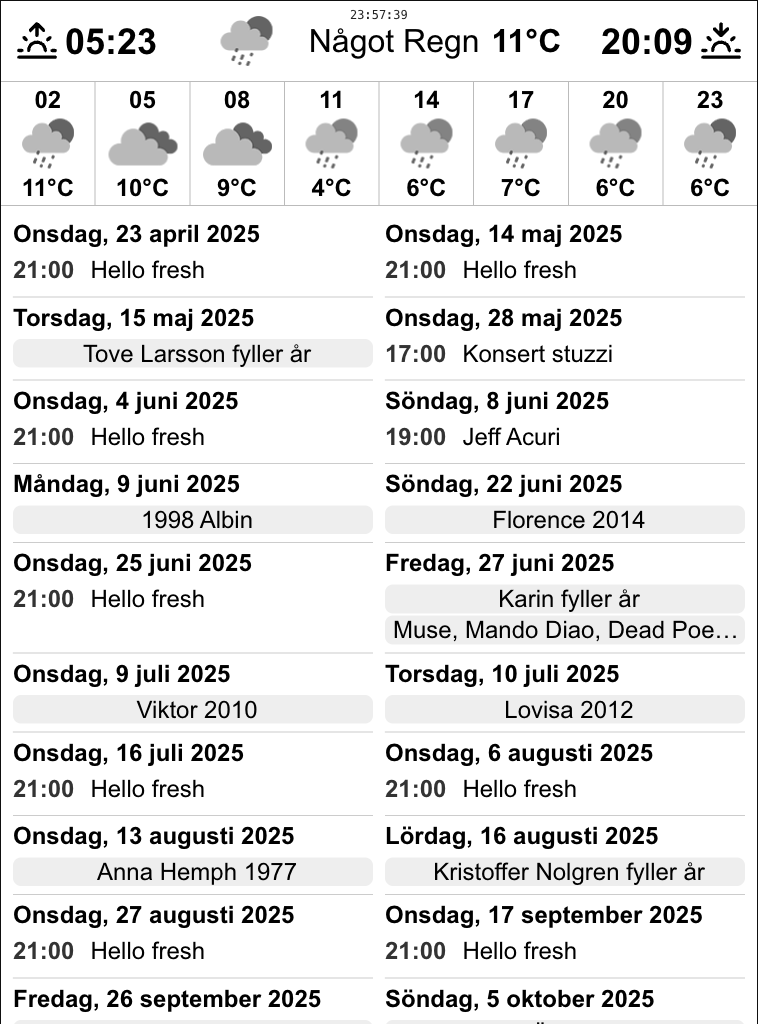
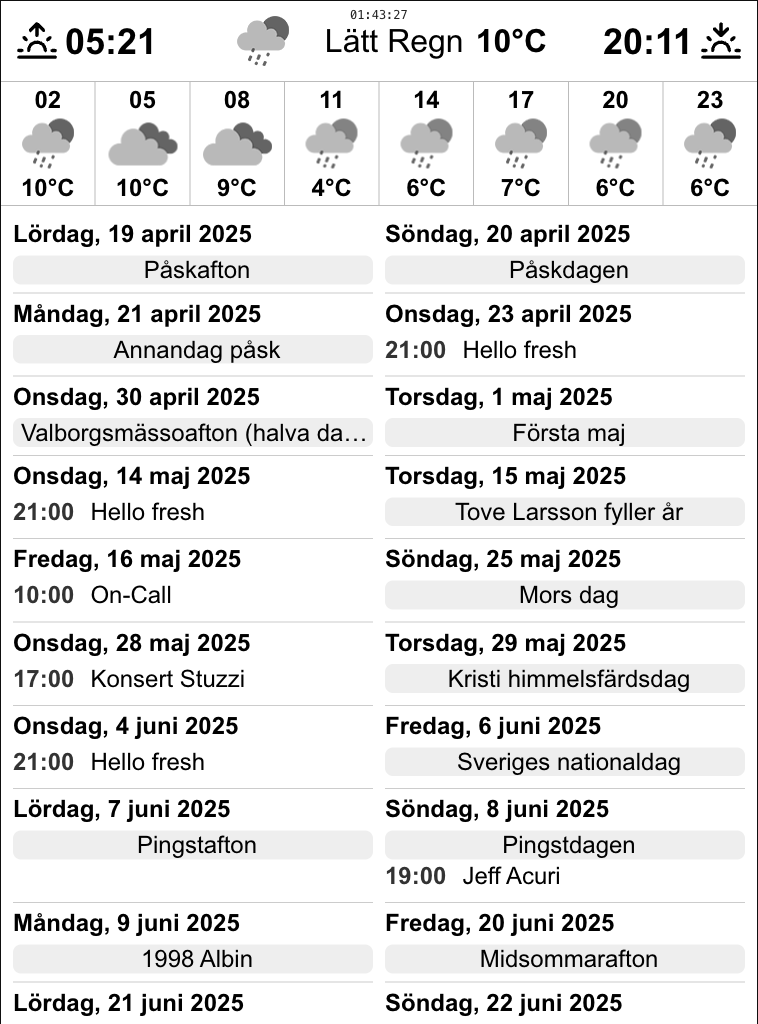
Update data fetching scripts

diff --git a/calendar.js b/calendar.js
@@ -1,6 +1,8 @@
 const fs = require('fs')
 const path = require('path')
 const { google } = require('googleapis')
+const axios = require('axios')
+const ical = require('node-ical')
 
 const CREDENTIALS_PATH = path.join(__dirname, 'client_secret_783324530652-psgiulir4cdlp0i2gqsinq492d2e2u1p.apps.googleusercontent.com.json')
 const TOKEN_PATH = path.join(__dirname, 'token.json')
@@ -38,25 +40,71 @@ async function authorize() {
   })
 }
 
-// Fetch events
+// Get all calendars
+async function getAllCalendars(auth) {
+  const calendar = google.calendar({ version: 'v3', auth })
+  const calendarList = await calendar.calendarList.list()
+  return calendarList.data.items
+}
+
+// Fetch and parse VCALENDAR
+async function getOnCallEvents() {
+  const response = await axios.get('https://rootly.com/account/shifts/ical/eyJfcmFpbHMiOnsiZGF0YSI6NTg2NywicHVyIjoibWVtYmVyc2hpcC9pY2FsIn19--cea7a5a4dd3a2b1da590b67ed1daf76fe3443846dcc3f746b5106c053f72d12d?user_ids=5785')
+  const events = await ical.parseICS(response.data)
+  
+  return Object.values(events)
+    .filter(event => event.type === 'VEVENT')
+    .map(event => ({
+      summary: 'On-Call',
+      start: {
+        dateTime: event.start.toISOString()
+      },
+      end: {
+        dateTime: event.end.toISOString()
+      },
+      calendarName: 'On-Call Schedule'
+    }))
+}
+
+// Fetch events from all calendars
 async function listEvents(auth) {
   const calendar = google.calendar({ version: 'v3', auth })
-  const res = await calendar.events.list({
-    calendarId: 'primary',
-    timeMin: new Date().toISOString(),
-    maxResults: 50,
-    singleEvents: true,
-    orderBy: 'startTime'
+  const calendars = await getAllCalendars(auth)
+  
+  const allEvents = []
+  for (const cal of calendars) {
+    const res = await calendar.events.list({
+      calendarId: cal.id,
+      timeMin: new Date().toISOString(),
+      maxResults: 50,
+      singleEvents: true,
+      orderBy: 'startTime'
+    })
+    
+    const events = res.data.items || []
+    events.forEach(event => {
+      event.calendarName = cal.summary
+    })
+    
+    allEvents.push(...events)
+  }
+  
+  // Add on-call events
+  const onCallEvents = await getOnCallEvents()
+  allEvents.push(...onCallEvents)
+  
+  return allEvents.sort((a, b) => {
+    const aTime = a.start.dateTime || a.start.date
+    const bTime = b.start.dateTime || b.start.date
+    return new Date(aTime) - new Date(bTime)
   })
-  console.log(calendar.events)
-  return  res.data.items || []
 }
 
 // Main
 async function fetchCalendarEvents() {
   const auth = await authorize()
   const events = await listEvents(auth)
-  fs.writeFileSync(path.join(__dirname, 'calendar.json'), JSON.stringify(events, null, 2))
+  fs.writeFileSync(path.join(__dirname, 'dashboard/src/data/calendar.json'), JSON.stringify(events, null, 2))
   console.log(`Saved ${events.length} events to calendar.json`)
 }
 
